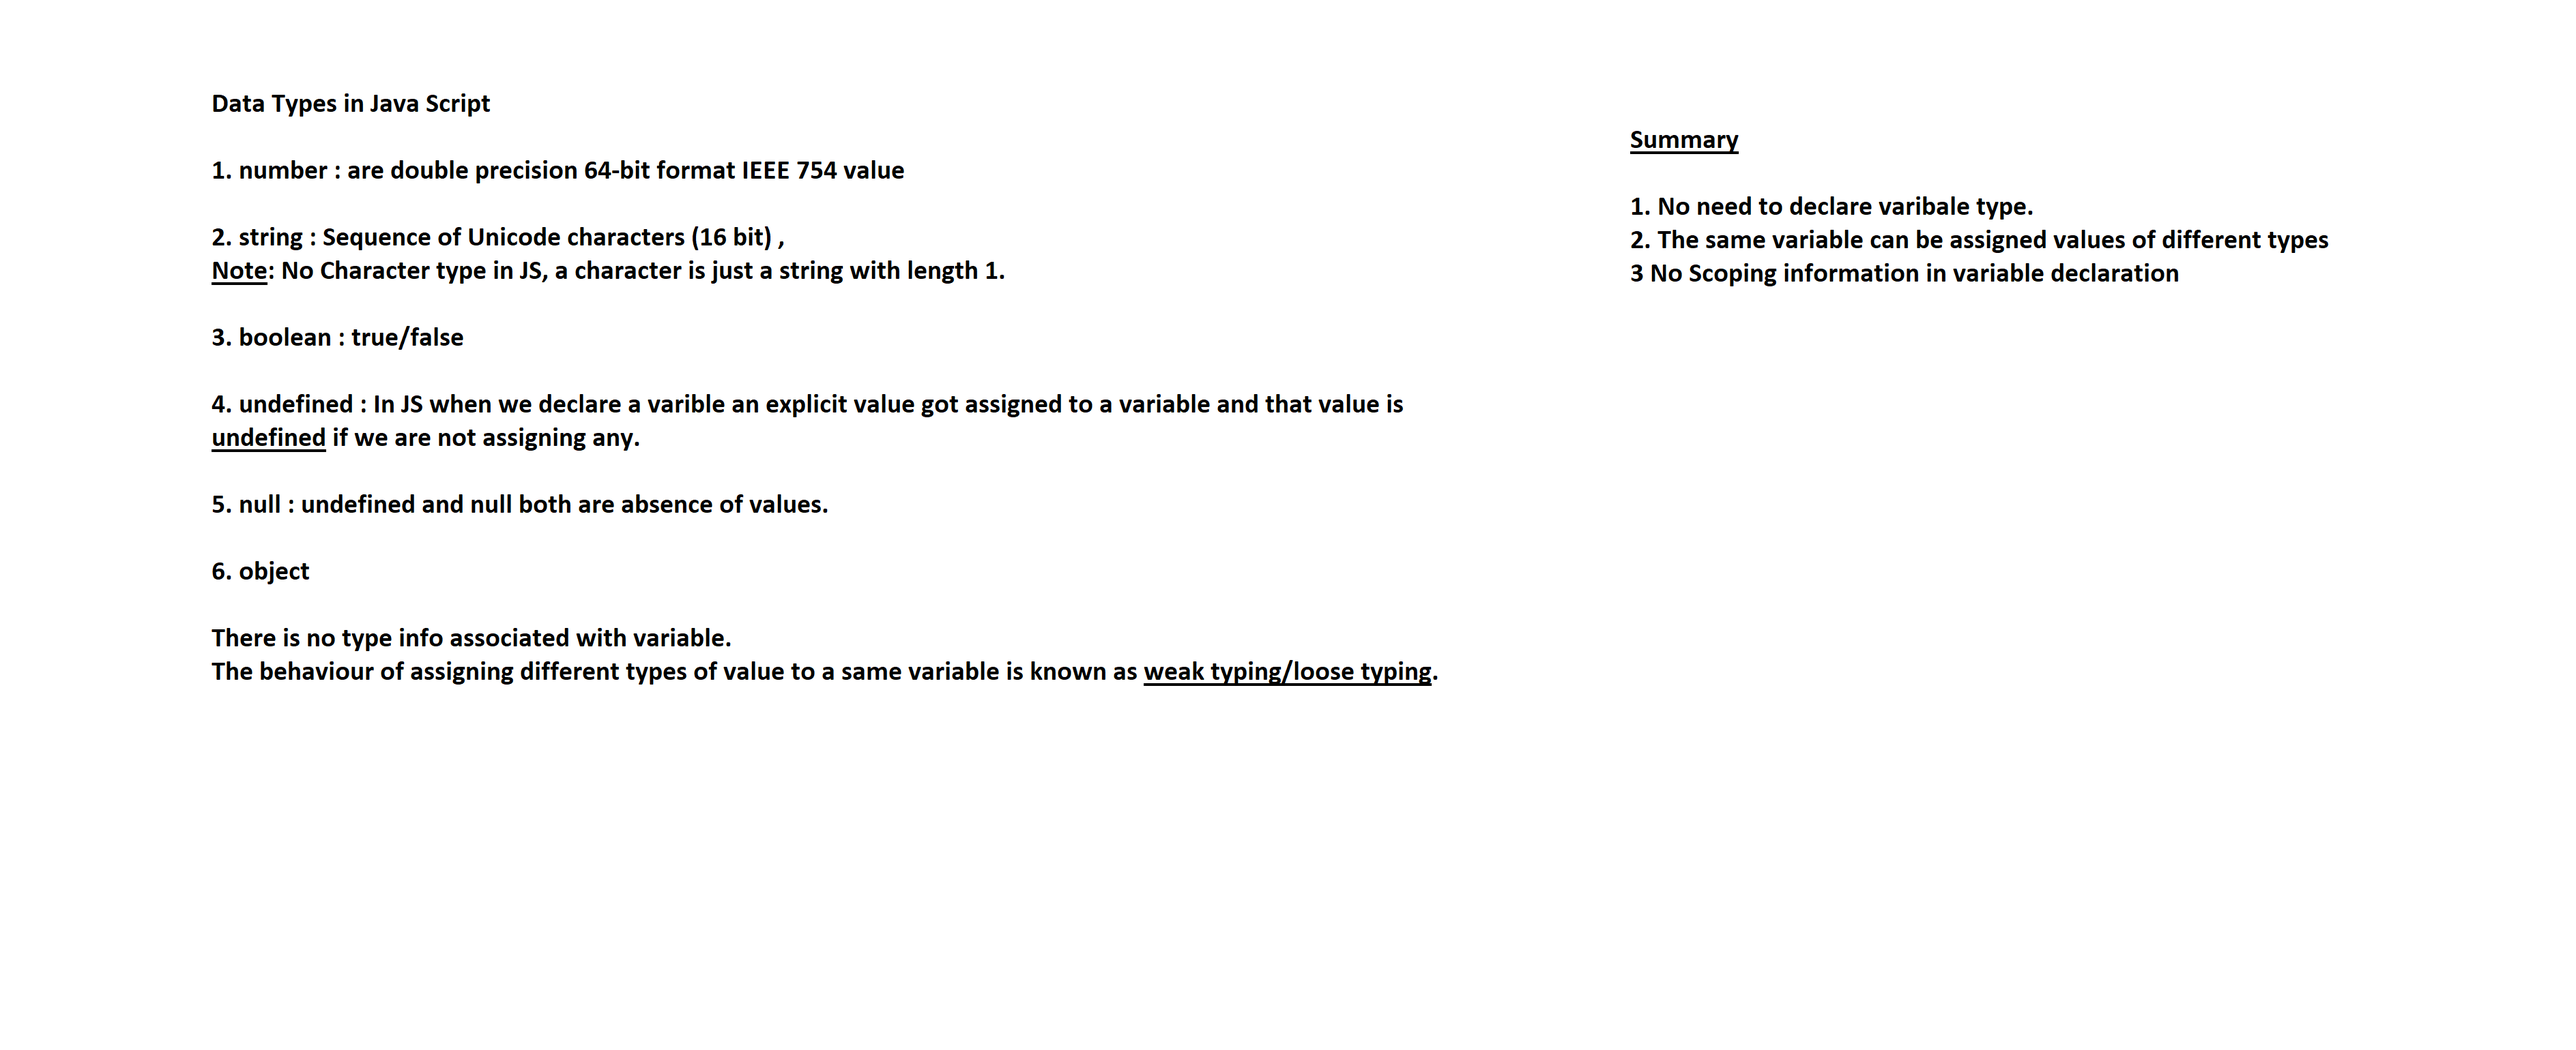
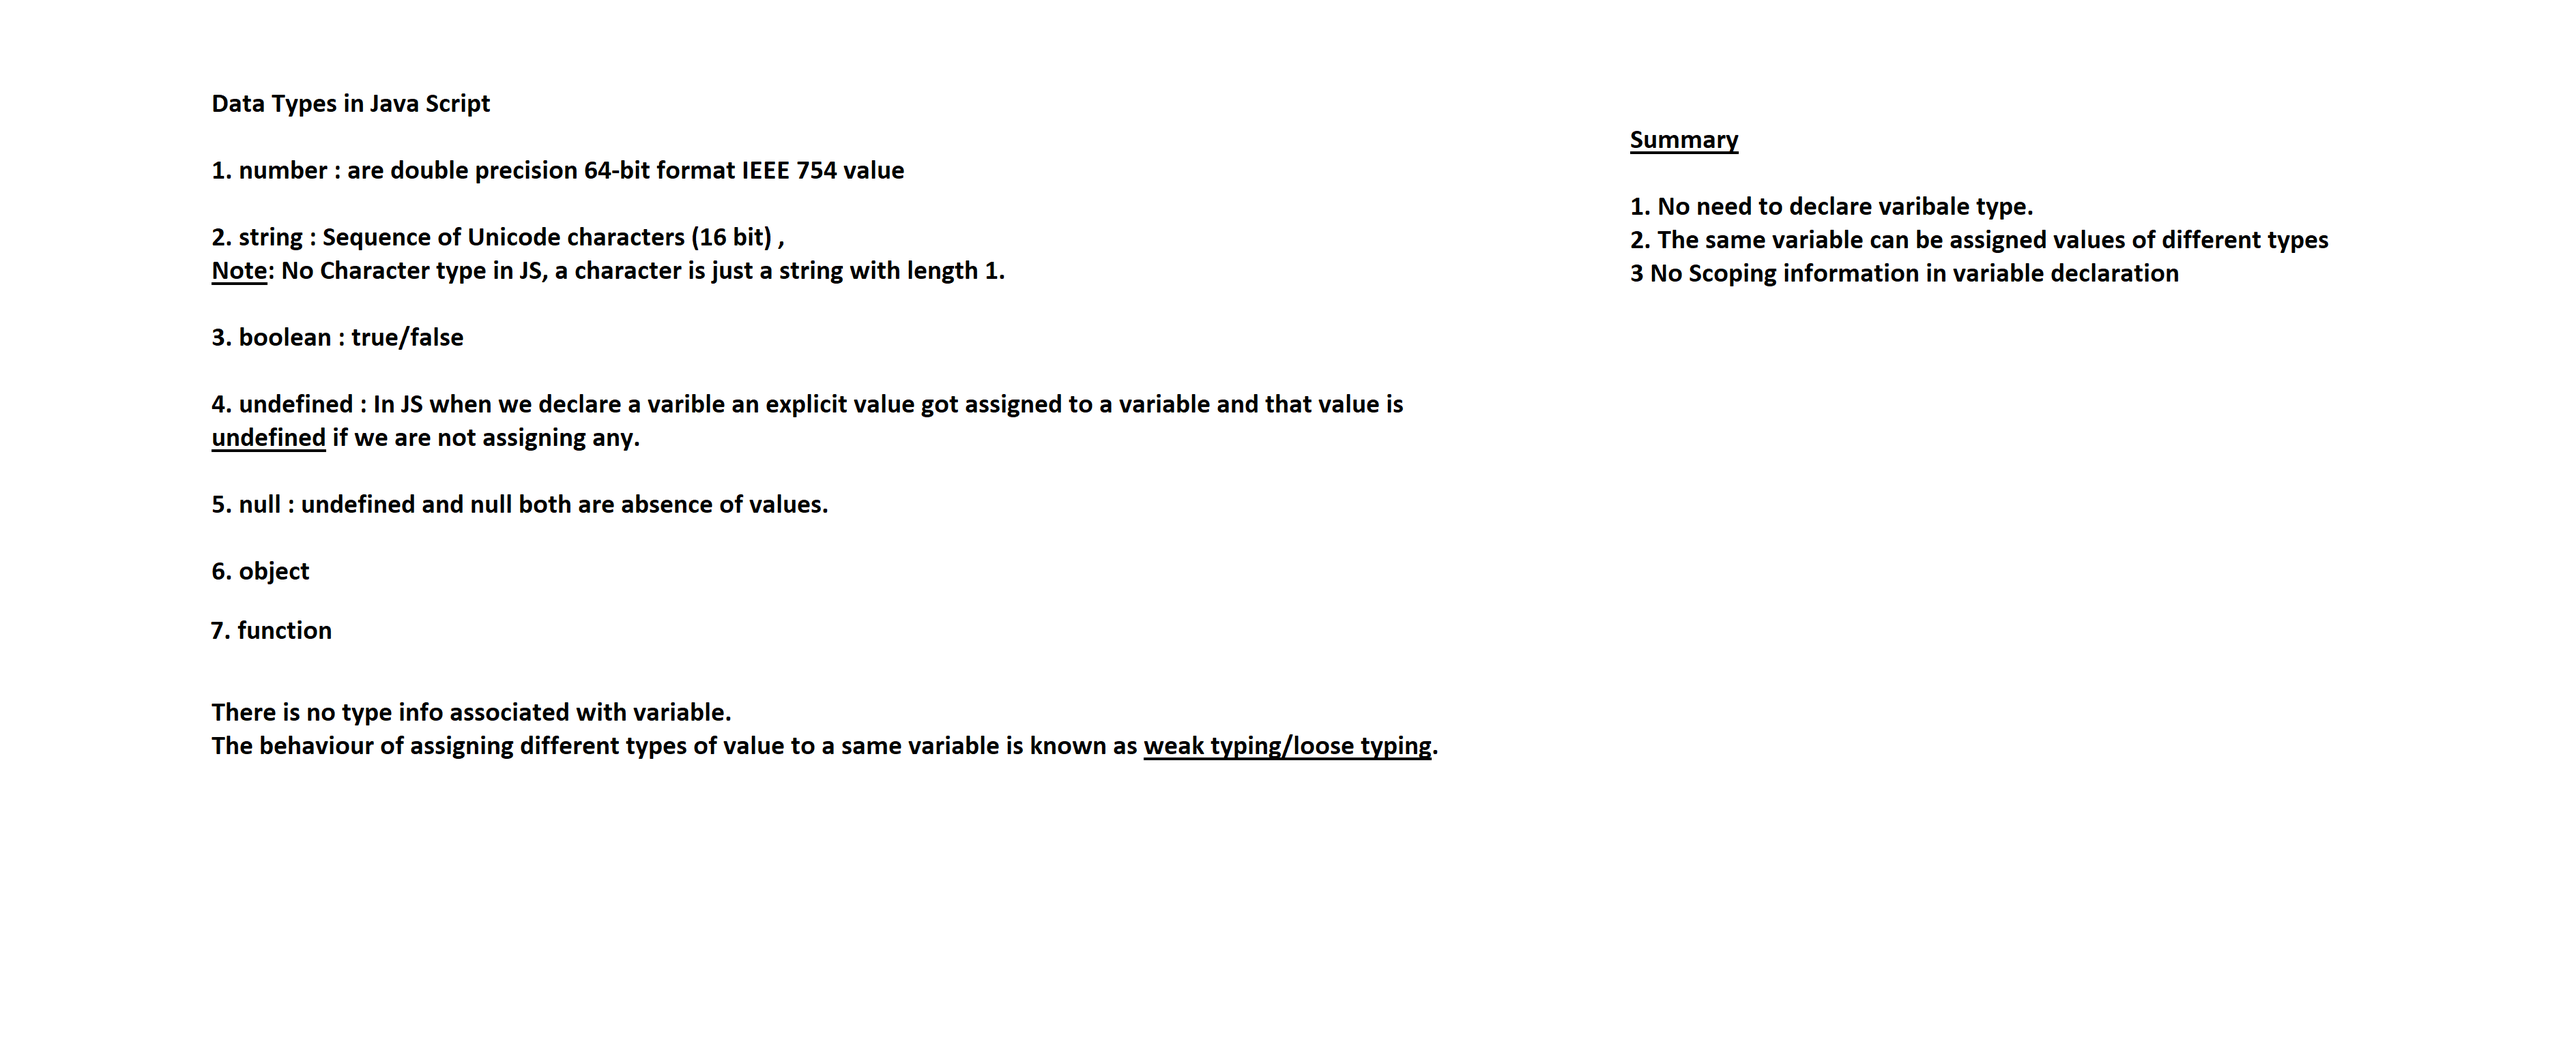
Add files via upload

Changed region(s): [[0.062, 0.5922, 0.5579, 0.7481]]

diff --git a/Day 14(Java Script)/Function Demo4.js b/Day 14(Java Script)/Function Demo4.js
@@ -1,0 +1,13 @@
+var obj={
+  prop1:10,
+  prop2:'Sujata',
+  prop4:function(){
+    console.log("demo to show function as a value of one of the property of an object");
+  }
+};
+obj.prop3= function(name){
+  return "Hello "+name;
+}
+
+console.log(typeof obj.prop3);
+console.log(obj);

diff --git a/Day 14(Java Script)/IIFE Demo.js b/Day 14(Java Script)/IIFE Demo.js
@@ -1,0 +1,6 @@
+(function myDummyForIIFE(){
+  var a=10;
+  var b=20;
+  console.log(a+b);
+})();
+console.log(window);
